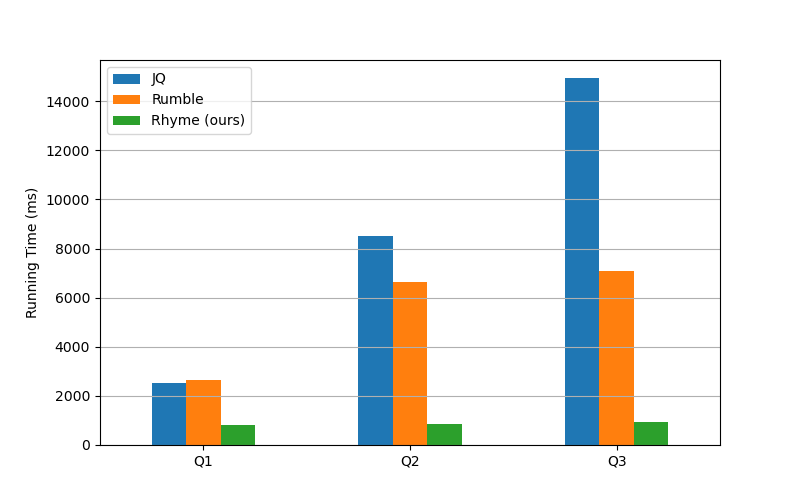
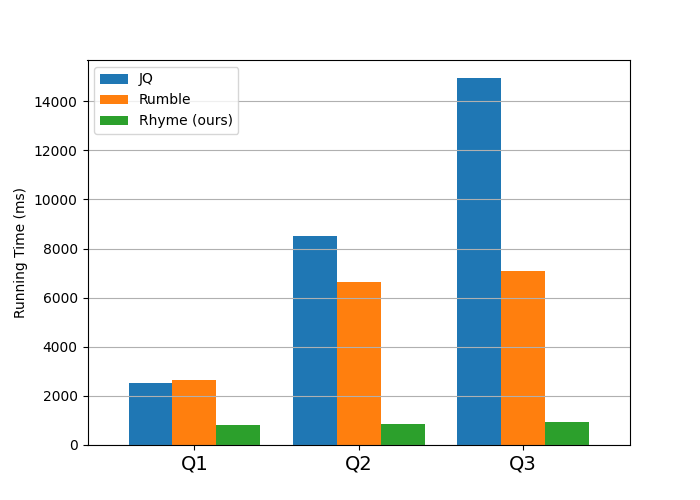
experiment updates

diff --git a/js/experiments/plot.py b/js/experiments/plot.py
@@ -56,27 +56,40 @@ with open(raw_log, 'r') as f:
     caseMap = {"rumble": "Rumble", "ours": "Rhyme (ours)", "jq": "JQ"}
     queryMap = {"q1": "Q1", "q2": "Q2", "q3":"Q3"}
 
+    import numpy as np
+
     # create a pandas dataframe: (case, query, mean time, std time)
     df = pd.DataFrame(columns=["case", "query", "mean", "std"])
     for case in data:
         for query in data[case]:
-            df = df.append({"case": caseMap[case], "query": queryMap[query], "mean": sum(data[case][query]) / len(data[case][query]), "std": 0}, ignore_index=True)
+            std = np.std(data[case][query])
+            df = df.append({"case": caseMap[case], "query": queryMap[query], "mean": sum(data[case][query]) / len(data[case][query]), "std": std}, ignore_index=True)
     
     print(df)
 
     # I want to plot query -> system -> mean time
     # so I need to pivot the table
+    std_df = df.pivot(index="query", columns="case", values="std")
     df = df.pivot(index="query", columns="case", values="mean")
 
     caseOrder = ["JQ", "Rumble", "Rhyme (ours)"]
     df = df[caseOrder]
+    std_df = std_df[caseOrder]
 
     print(df)
 
     import matplotlib.pyplot as plt
 
     # plot
-    df.plot(kind="bar")
+    # df.plot(kind="bar", width=0.8, rot=0, yerr=std_df, fontsize=14, ecolor="black")
+    df.plot(kind="bar", width=0.8, rot=0, ylabel="Running Time (ms)")
+
+    # set font size
+    plt.xticks(fontsize=14)
+    # plt.yticks(fontsize=14)
+
+    # legend font size
+    plt.legend(fontsize=30)
 
     # y axis log scale
     # plt.yscale("log")
@@ -89,15 +102,14 @@ with open(raw_log, 'r') as f:
 
     # add grid lines
     plt.grid(axis="y")
-
     # set size
-    plt.gcf().set_size_inches(8, 5)
-
+    plt.gcf().set_size_inches(7, 5)
 
     # hide label from legend
     plt.legend(title=None)
+    
 
-    plt.ylabel("Running Time (ms)")
     plt.savefig("plot.png")
+    plt.savefig("plot.pdf")
 
 
